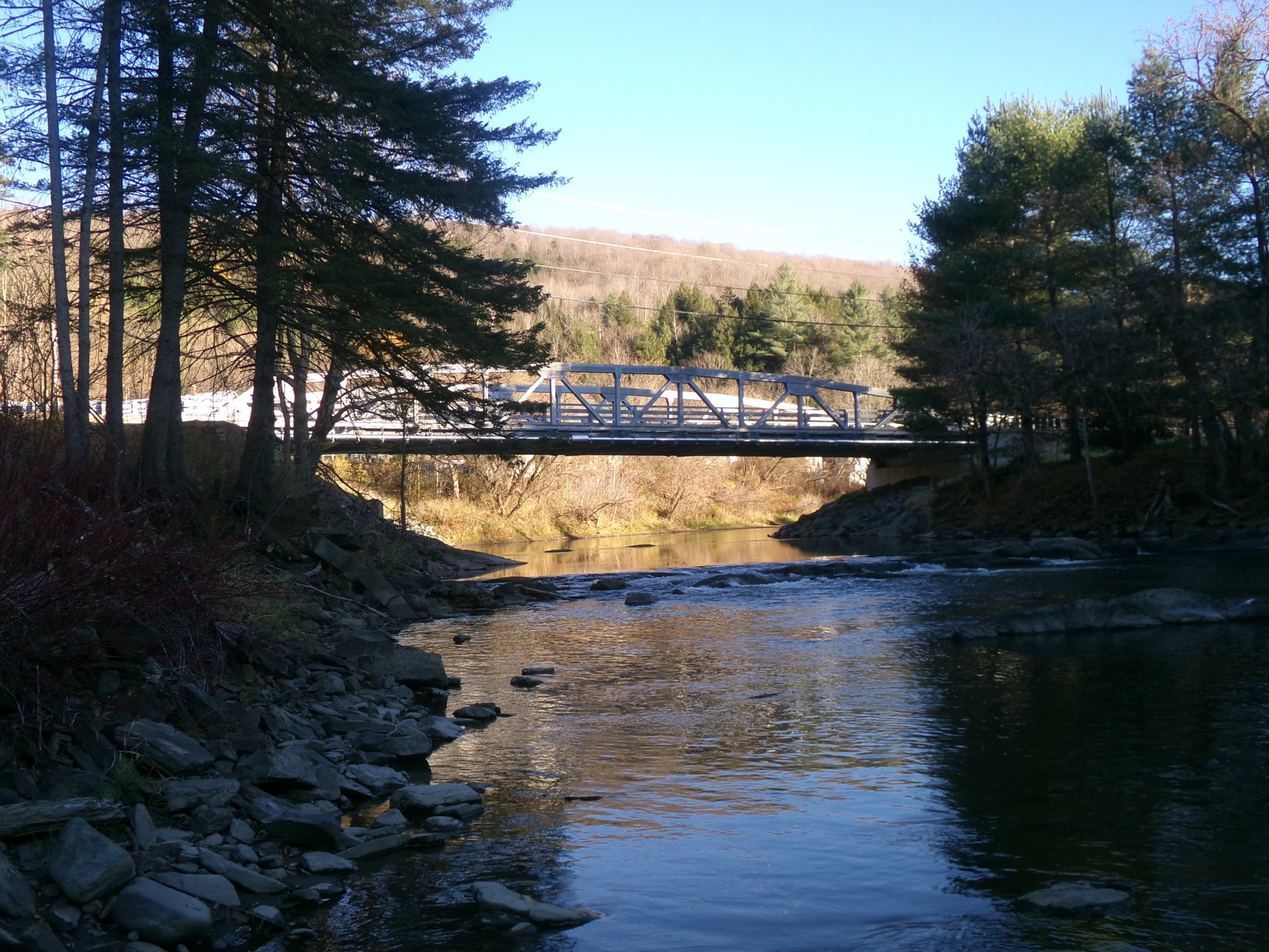
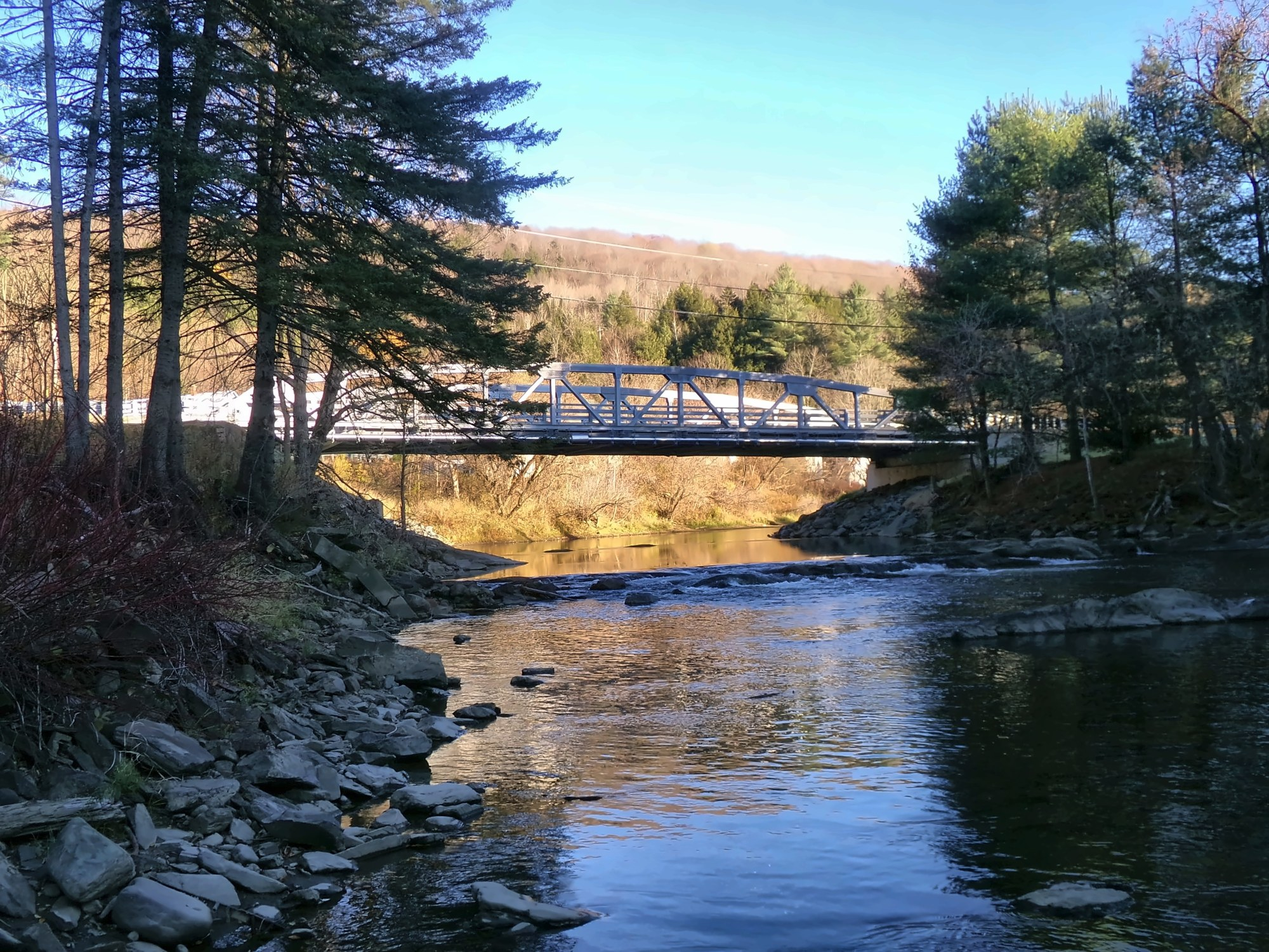
Replace the Now hero photo with the enhanced version.
Keep the same filenames and cache-bust the hero image URLs so the brighter riverbank view is what visitors load.

diff --git a/index.html b/index.html
@@ -22,10 +22,10 @@
         <span class="then-now-label">Then</span>
         <span class="gallery-caption">The covered bridge, 1872–1927</span>
       </button>
-      <button type="button" class="gallery-item then-now-item then-now-now" data-full-jpg="images/full/bridge-from-river.jpg" data-caption="The new School Street Bridge, 2026" data-alt="The modern steel truss School Street Bridge over the Lamoille River, seen from the rocky riverbank downstream on a sunny late-fall day.">
+      <button type="button" class="gallery-item then-now-item then-now-now" data-full-jpg="images/full/bridge-from-river.jpg?v=2" data-caption="The new School Street Bridge, 2026" data-alt="The modern steel truss School Street Bridge over the Lamoille River, seen from the rocky riverbank downstream on a sunny late-fall day.">
         <img
-          src="images/thumbs/bridge-from-river.jpg"
-          srcset="images/thumbs/bridge-from-river.jpg 800w, images/full/bridge-from-river.jpg 2000w"
+          src="images/thumbs/bridge-from-river.jpg?v=2"
+          srcset="images/thumbs/bridge-from-river.jpg?v=2 800w, images/full/bridge-from-river.jpg?v=2 2000w"
           sizes="(min-width: 800px) 50vw, 100vw"
           alt="The modern steel truss School Street Bridge over the Lamoille River, seen from the rocky riverbank downstream on a sunny late-fall day."
           width="2000"
